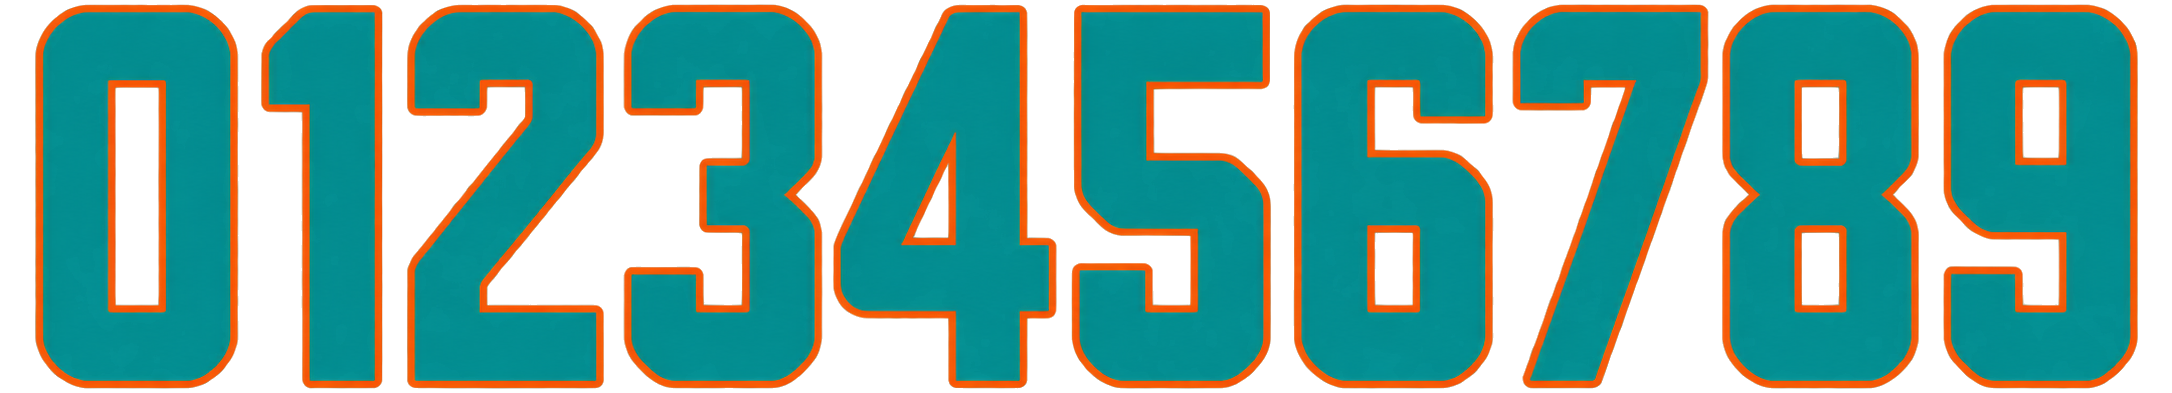
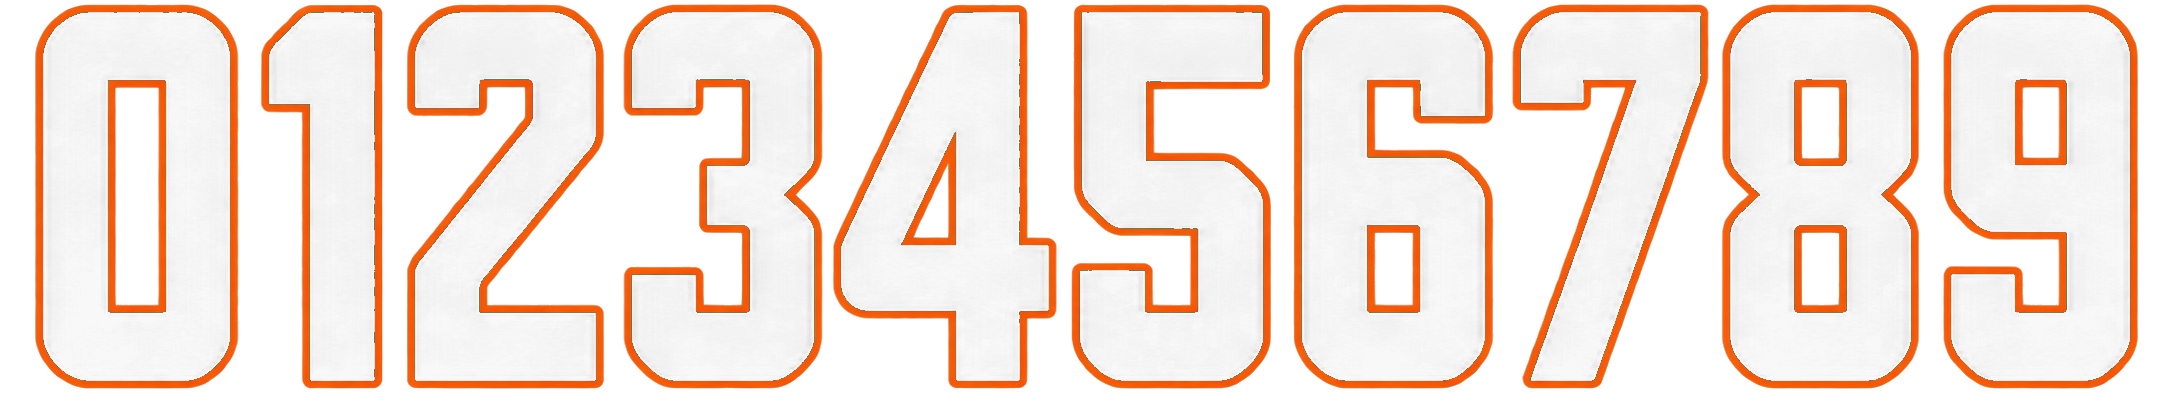
3.78: player renders for 12 more teams (30 of 32), white Dolphins numbers
Claude-Session: https://claude.ai/code/session_01Nx5NARwc86Ay4Sngkv8wPb

Claude-Session: https://claude.ai/code/session_01Nx5NARwc86Ay4Sngkv8wPb

diff --git a/src/patchNotes.js b/src/patchNotes.js
@@ -1502,4 +1502,8 @@ export const PATCH_NOTES = [
   { v: "3.77", date: "2026-10-20", title: "Sharper player renders", notes: [
     "Player renders in the spotlight are now sharp: they were stored at a smaller size and stretched on big and high-resolution screens. They now load at full resolution (jersey numbers too).",
   ] },
+  { v: "3.78", date: "2026-10-20", title: "Player art for 30 teams", notes: [
+    "Player renders now cover 30 of 32 teams: the Dolphins, Vikings, Patriots, Saints, Jets, Eagles, Steelers, Seahawks, 49ers, Buccaneers, Titans and Commanders join. The Falcons and Browns are still to come.",
+    "Dolphins numbers are white with orange trim, so they show on the aqua home jersey.",
+  ] },
 ];

diff --git a/art/tools/clean_number_sheets.py b/art/tools/clean_number_sheets.py
@@ -5,6 +5,9 @@ from PIL import Image
 ART = os.path.join(os.path.dirname(os.path.abspath(__file__)), "..")
 out_dir = os.path.join(ART, "numbers"); os.makedirs(out_dir, exist_ok=True)
 DOTS = {"DEN", "DET"}
+# the sheet's fill colour matches the home jersey, so the numbers would vanish: fill them white
+# (keeping the trim). Miami's sheet came back aqua-filled for a white jersey; the home jersey is aqua.
+WHITE_FILL = {"MIA": (70, 100)}   # hue range (OpenCV, 0-180) of the fill to whiten
 for f in sorted(glob.glob(os.path.join(ART, "numbers", "source", "*_Home_Numbers_0-9.png"))):
     ab = os.path.basename(f).split("_")[0]
     im = np.array(Image.open(f).convert("RGBA")).astype(np.float32)
@@ -23,6 +26,12 @@ for f in sorted(glob.glob(os.path.join(ART, "numbers", "source", "*_Home_Numbers
         region = cv2.morphologyEx(white.astype(np.uint8), cv2.MORPH_CLOSE, np.ones((9, 9), np.uint8)).astype(bool)
         dots = region & ~white
         rgb[dots] = np.median(rgb[white], 0)
+    if ab in WHITE_FILL:
+        lo, hi = WHITE_FILL[ab]
+        hsv = cv2.cvtColor(rgb.astype(np.uint8), cv2.COLOR_RGB2HSV)
+        fill = (hsv[..., 0] >= lo) & (hsv[..., 0] <= hi) & (hsv[..., 1] > 60)
+        shade = (hsv[..., 2][fill].astype(np.float32) / max(1, np.percentile(hsv[..., 2][fill], 90)))
+        rgb[fill] = (np.clip(shade, 0, 1)[:, None] * 248).repeat(3, 1)
     a = im[:, :, 3]; a[a < 30] = 0
     # remove specks: keep components bigger than a small threshold
     n, lab, st, _ = cv2.connectedComponentsWithStats((a > 0).astype(np.uint8), 8)

diff --git a/art/tools/compose.py b/art/tools/compose.py
@@ -66,10 +66,17 @@ def clean_alpha(img):
     a = img[:, :, 3].copy(); a[a < 24] = 0; img = img.copy(); img[:, :, 3] = a; return img
 
 def jersey_box(img):
-    """The jersey: pixels matching the colour sampled at the middle of the chest."""
+    """The jersey: pixels matching the colour sampled at the middle of the chest (a little lower if
+    that spot is the facemask, when the head hangs low)."""
+    for f in (0.22, 0.27, 0.32):
+        try: return _jersey_box(img, f)
+        except IndexError: pass
+    raise ValueError("no jersey found")
+
+def _jersey_box(img, f):
     h, w = img.shape[:2]; hsv = cv2.cvtColor(img[:, :, :3], cv2.COLOR_BGR2HSV).astype(int); a = img[:, :, 3]
     ys, xs = np.where(a > 200); cx = int(np.median(xs)); top = ys.min()
-    sy = top + int((ys.max() - top) * 0.22)
+    sy = top + int((ys.max() - top) * f)
     ref = np.median(hsv[sy - 10:sy + 10, cx - 30:cx + 30].reshape(-1, 3), 0)
     dh = np.minimum(np.abs(hsv[:, :, 0] - ref[0]), 180 - np.abs(hsv[:, :, 0] - ref[0]))
     if ref[1] > 60 and ref[2] > 50: m = (dh < 12) & (hsv[:, :, 1] > ref[1] * 0.5) & (a > 200)

diff --git a/art/README.md b/art/README.md
@@ -8,7 +8,7 @@ screens will load processed copies from `public/` once they are built.
 
 | | Done | Teams |
 |---|---|---|
-| Player sprites (6 per team) | 18 / 32 | ARI BAL BUF CAR CHI CIN DAL DEN DET GB HOU IND JAX KC LAC LAR LV NYG |
+| Player sprites (6 per team) | 30 / 32 | all but ATL and CLE |
 | Number sheets | 32 / 32 | all (Giants use `numbers/NYG_original.png`) |
 
 Giants: `players/NYG_numbered/NYG_{00-99}.png` are full renders with the real number already on the
@@ -22,8 +22,8 @@ Custom Giants: `players/NYG_custom/NYG_{Last}_{##}.png`, realistic renders of na
 pose and framing (Dart, Carter, Reese, Nabers, Skattebo, Burns, Hood). These take priority over the numbered set for that player.
 
 Open notes:
-- **MIA** numbers are aqua with orange trim (for a white jersey). If the Dolphins sprites come back
-  in aqua jerseys, the sheet needs white numbers instead.
+- **MIA**: the sheet came back aqua with orange trim (made for a white jersey); the home jersey is aqua,
+  so `clean_number_sheets.py` fills the digits white and keeps the trim.
 - **CLE** numbers are plain white with no outline; real Browns home numbers are orange.
 
 ## Layout
